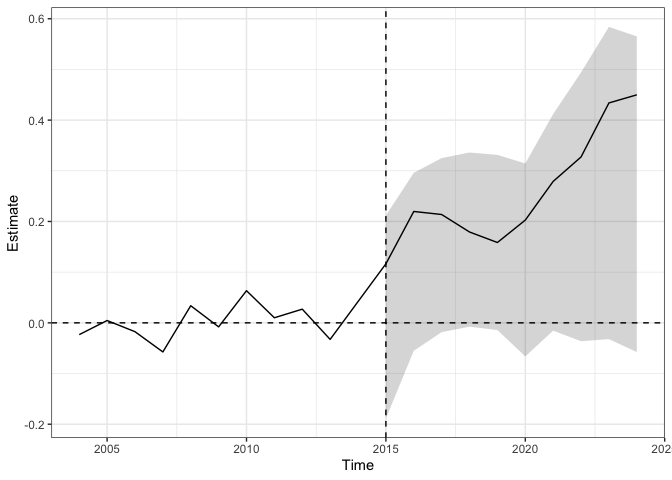
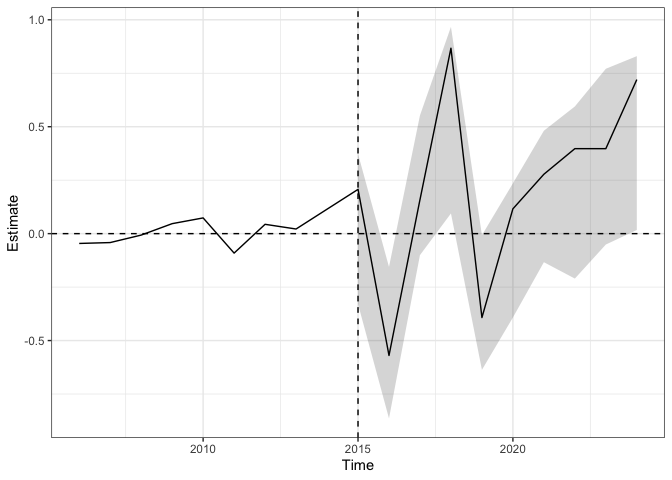
adding synthetic control

diff --git a/README.md b/README.md
@@ -96,6 +96,73 @@ Control Analysis
 
 ![](README_files/figure-gfm/unnamed-chunk-3-1.png)<!-- -->
 
+## Synthetic Control Analysis (new data)
+
+- Only look at SUV areas of precints 43, 47, 39 for years 2006-2024
+- Use other precincts as controls (see below for slection method)
+
+### SHOOTINGS
+
+#### Using ridge to allow for extraploation (lambda selected through a visual analysis)
+
+    ## 
+    ## Call:
+    ## single_augsynth(form = form, unit = !!enquo(unit), time = !!enquo(time), 
+    ##     t_int = t_int, data = data, progfunc = "Ridge", scm = ..2, 
+    ##     fixedeff = ..4, lambda = 0.03)
+    ## 
+    ## Average ATT Estimate:  0.013 
+    ## L2 Imbalance: 0.038
+    ## Percent improvement from uniform weights: 91%
+    ## 
+    ## Avg Estimated Bias: 0.014
+    ## 
+    ## Inference type: Jackknife+ over time periods
+    ## 
+    ##  Time Estimate 95% CI Lower Bound 95% CI Upper Bound
+    ##  2015   -0.224             -0.693              0.410
+    ##  2016    0.189             -0.396              0.770
+    ##  2017   -0.230             -0.464              0.421
+    ##  2018    0.255             -0.583              0.852
+    ##  2019   -0.553             -0.831              0.066
+    ##  2020   -0.030             -0.675              0.462
+    ##  2021   -0.116             -0.540              0.475
+    ##  2022    0.341             -0.128              0.929
+    ##  2023    0.715              0.207              1.360
+    ##  2024   -0.216             -0.842              0.407
+
+![](README_files/figure-gfm/unnamed-chunk-4-1.png)<!-- -->
+
+#### Not allowing for extrapolation (basic model)
+
+    ## 
+    ## Call:
+    ## single_augsynth(form = form, unit = !!enquo(unit), time = !!enquo(time), 
+    ##     t_int = t_int, data = data, progfunc = "None", scm = ..2, 
+    ##     fixedeff = ..3)
+    ## 
+    ## Average ATT Estimate:  0.027 
+    ## L2 Imbalance: 0.228
+    ## Percent improvement from uniform weights: 46.5%
+    ## 
+    ## Avg Estimated Bias: NA
+    ## 
+    ## Inference type: Jackknife+ over time periods
+    ## 
+    ##  Time Estimate 95% CI Lower Bound 95% CI Upper Bound
+    ##  2015   -0.189             -0.695              0.500
+    ##  2016   -0.003             -0.495              0.635
+    ##  2017    0.084             -0.412              0.569
+    ##  2018    0.079             -0.674              0.739
+    ##  2019   -0.400             -0.771              0.191
+    ##  2020   -0.095             -0.689              0.443
+    ##  2021    0.001             -0.491              0.510
+    ##  2022    0.381             -0.165              1.023
+    ##  2023    0.524              0.028              1.207
+    ##  2024   -0.116             -0.762              0.529
+
+![](README_files/figure-gfm/unnamed-chunk-5-1.png)<!-- -->
+
 ## Synthetic Control Analysis (old)
 
 ### Selecting Precincts:
@@ -111,7 +178,7 @@ Control Analysis
 
 ### Exploratory Plots
 
-![](README_files/figure-gfm/unnamed-chunk-4-1.png)<!-- -->![](README_files/figure-gfm/unnamed-chunk-4-2.png)<!-- -->![](README_files/figure-gfm/unnamed-chunk-4-3.png)<!-- -->![](README_files/figure-gfm/unnamed-chunk-4-4.png)<!-- -->![](README_files/figure-gfm/unnamed-chunk-4-5.png)<!-- -->![](README_files/figure-gfm/unnamed-chunk-4-6.png)<!-- -->
+![](README_files/figure-gfm/unnamed-chunk-6-1.png)<!-- -->![](README_files/figure-gfm/unnamed-chunk-6-2.png)<!-- -->![](README_files/figure-gfm/unnamed-chunk-6-3.png)<!-- -->![](README_files/figure-gfm/unnamed-chunk-6-4.png)<!-- -->![](README_files/figure-gfm/unnamed-chunk-6-5.png)<!-- -->![](README_files/figure-gfm/unnamed-chunk-6-6.png)<!-- -->
 
 ### MURDER
 
@@ -143,7 +210,7 @@ Control Analysis
     ##  2023    0.116             -0.359              0.530
     ##  2024    0.679              0.181              1.122
 
-![](README_files/figure-gfm/unnamed-chunk-5-1.png)<!-- -->
+![](README_files/figure-gfm/unnamed-chunk-7-1.png)<!-- -->
 
 ### Not allowing for extrapolation (basic model)
 
@@ -173,7 +240,7 @@ Control Analysis
     ##  2023    0.054             -0.429              0.473
     ##  2024    0.506              0.092              0.955
 
-![](README_files/figure-gfm/unnamed-chunk-6-1.png)<!-- -->
+![](README_files/figure-gfm/unnamed-chunk-8-1.png)<!-- -->
 
 ### SHOOTINGS
 
@@ -205,7 +272,7 @@ Control Analysis
     ##  2023    0.523              0.052              0.883
     ##  2024    0.721             -0.062              0.885
 
-![](README_files/figure-gfm/unnamed-chunk-7-1.png)<!-- -->
+![](README_files/figure-gfm/unnamed-chunk-9-1.png)<!-- -->
 
 #### Not allowing for extrapolation (basic model)
 
@@ -235,7 +302,7 @@ Control Analysis
     ##  2023    0.397             -0.051              0.771
     ##  2024    0.720              0.017              0.830
 
-![](README_files/figure-gfm/unnamed-chunk-8-1.png)<!-- -->
+![](README_files/figure-gfm/unnamed-chunk-10-1.png)<!-- -->
 
 ### CRIMES (Murder + Rape + Assault + Robbery)
 
@@ -267,7 +334,7 @@ Control Analysis
     ##  2023    0.239             -0.185              0.721
     ##  2024    0.176             -0.173              0.584
 
-![](README_files/figure-gfm/unnamed-chunk-9-1.png)<!-- -->
+![](README_files/figure-gfm/unnamed-chunk-11-1.png)<!-- -->
 
 #### Not allowing for extrapolation (basic model)
 
@@ -297,7 +364,7 @@ Control Analysis
     ##  2023    0.434             -0.032              0.584
     ##  2024    0.450             -0.058              0.565
 
-![](README_files/figure-gfm/unnamed-chunk-10-1.png)<!-- -->
+![](README_files/figure-gfm/unnamed-chunk-12-1.png)<!-- -->
 
 ### Conclusion:
 
